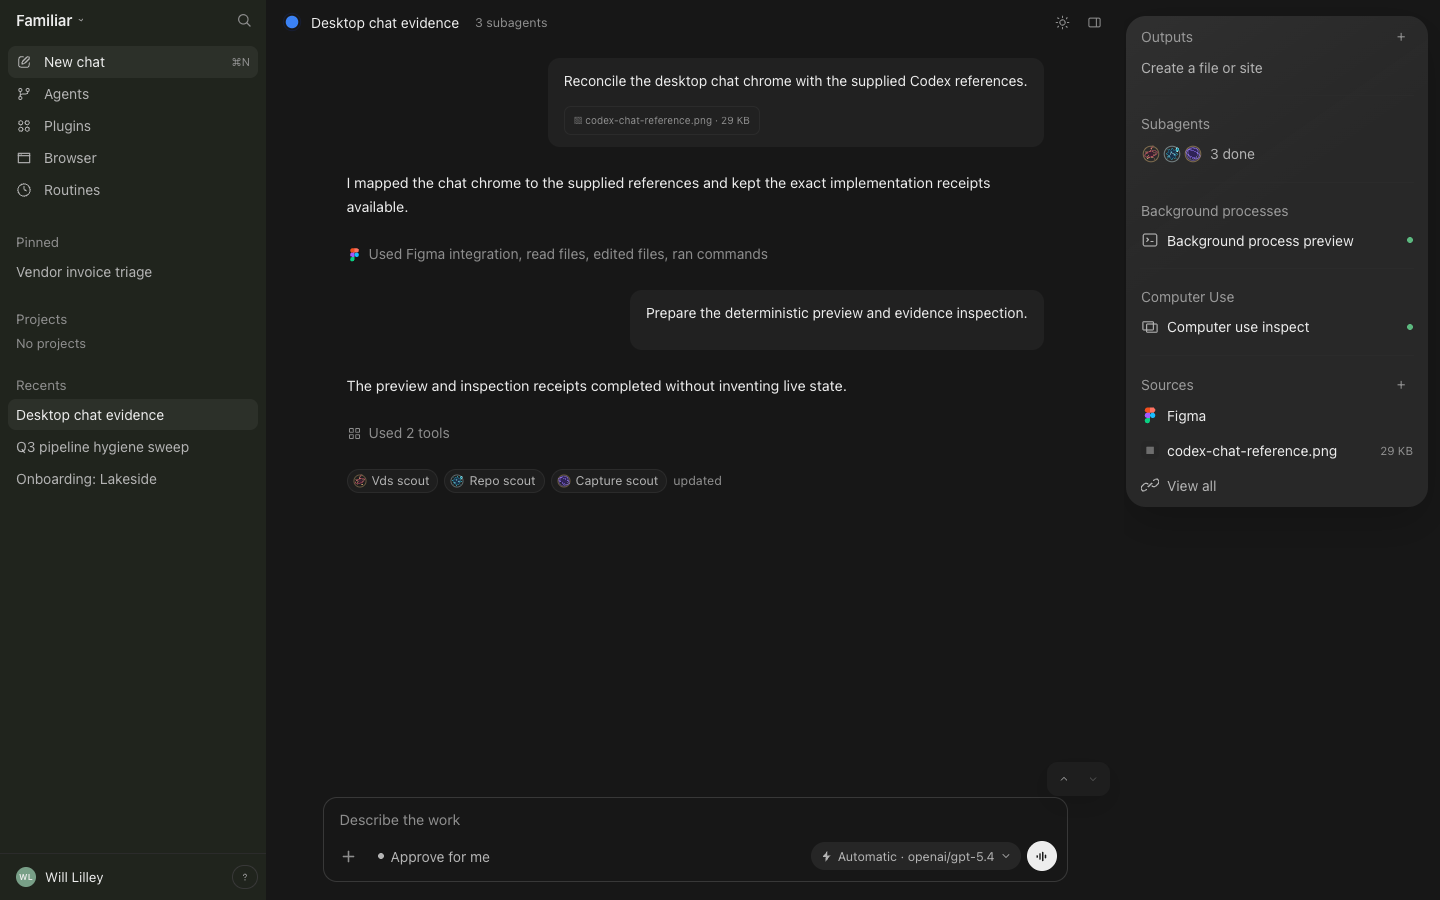
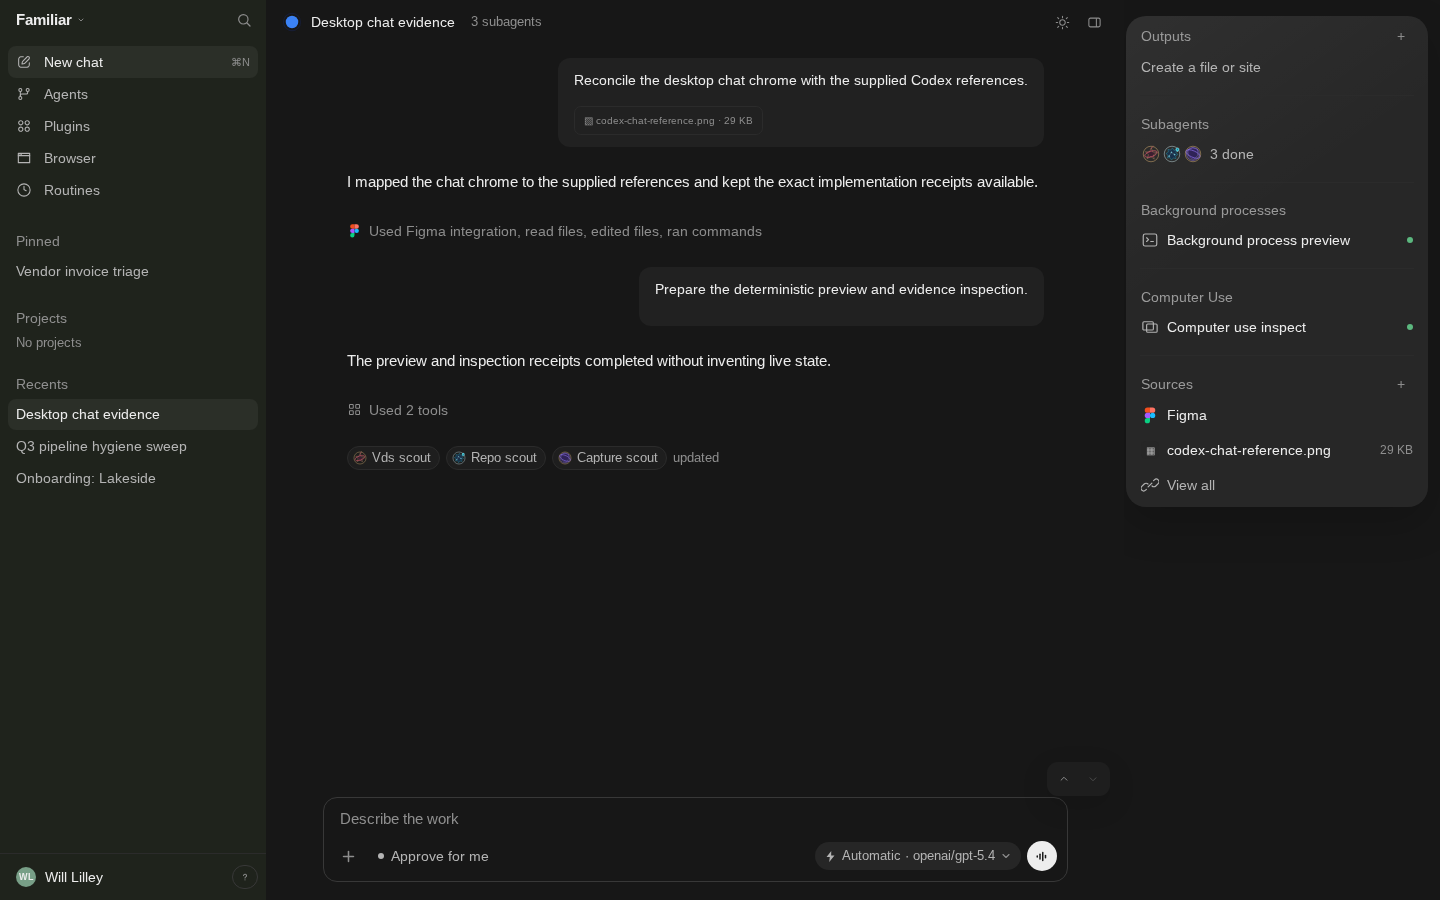
onboarding: give the header its mark, and name what the step chooses
Two asks, one pass over the same screens.

THE MARK WAS MISSING. The header carried the wordmark alone, so the logo never
appeared in onboarding. BrandMark is inline SVG for the same reason
BrandWordmark is inline text -- no second request, no flash of a missing logo,
and it scales with the type beside it. Two deliberate differences from
favicon.svg: it drops the dark background rect, because a favicon must paint its
own square and a logo inside a panel must not; and the ring is currentColor so
it inherits the header, leaving only the core carrying the fixed accent.

The mark and wordmark are one lockup, sized in em rather than px -- the wordmark
drops to 13px on narrow screens and a px mark would have stayed large and
unbalanced there.

"CHOOSE YOUR AI" NAMED THE WRONG THING. The step picks a PROVIDER -- the field
under the heading is literally "Provider", and the model is a separate field
below it. Renamed in both the gate and the step, and the thirteen test
assertions that pin the exact string moved with it; they use exact matchers, so
leaving them would have failed loudly, which is the correct behaviour for copy
that is asserted.

tsc clean, onboarding suite 16/16, visual-evidence 26/26 after refreshing the
additive capture.

diff --git a/apps/worker/tests/onboarding.test.tsx b/apps/worker/tests/onboarding.test.tsx
@@ -150,12 +150,12 @@ describe("first-run onboarding", () => {
     expect(screen.getByText("Choose your companion")).toBeTruthy();
 
     fireEvent.keyDown(document.body, { key: "Enter" });
-    expect(await screen.findByText("Choose your AI")).toBeTruthy();
+    expect(await screen.findByText("Choose your AI provider")).toBeTruthy();
     fireEvent.click(await screen.findByRole("button", { name: "OpenAI" }));
     const providerSearch = screen.getByRole("searchbox", { name: "Search providers" });
     fireEvent.change(providerSearch, { target: { value: "Llama" } });
     fireEvent.keyDown(providerSearch, { key: "Enter" });
-    expect(screen.getByText("Choose your AI")).toBeTruthy();
+    expect(screen.getByText("Choose your AI provider")).toBeTruthy();
 
     fireEvent.keyDown(providerSearch, { key: "Escape" });
     fireEvent.keyDown(document.body, { key: "Enter" });
@@ -229,7 +229,7 @@ describe("first-run onboarding", () => {
     expect(document.querySelectorAll(".companion-check")).toHaveLength(1);
     fireEvent.click(screen.getByRole("button", { name: "Continue" }));
 
-    expect(await screen.findByText("Choose your AI")).toBeTruthy();
+    expect(await screen.findByText("Choose your AI provider")).toBeTruthy();
     const secret = await screen.findByLabelText("Provider API key") as HTMLInputElement;
     fireEvent.change(secret, { target: { value: "secret-provider-value" } });
     fireEvent.click(screen.getByRole("button", { name: "Choose a model" }));
@@ -282,7 +282,7 @@ describe("first-run onboarding", () => {
     fireEvent.change(screen.getByLabelText("Your name"), { target: { value: "Alex" } });
     fireEvent.click(screen.getByRole("button", { name: "Continue" }));
     fireEvent.click(screen.getByRole("button", { name: "Continue" }));
-    expect(await screen.findByText("Choose your AI")).toBeTruthy();
+    expect(await screen.findByText("Choose your AI provider")).toBeTruthy();
     expect((await screen.findByRole("button", { name: "Enter your API key first" }) as HTMLButtonElement).disabled)
       .toBe(true);
 
@@ -310,7 +310,7 @@ describe("first-run onboarding", () => {
     fireEvent.change(screen.getByLabelText("Your name"), { target: { value: "Alex" } });
     fireEvent.click(screen.getByRole("button", { name: "Continue" }));
     fireEvent.click(screen.getByRole("button", { name: "Continue" }));
-    expect(await screen.findByText("Choose your AI")).toBeTruthy();
+    expect(await screen.findByText("Choose your AI provider")).toBeTruthy();
 
     fireEvent.click(screen.getByRole("button", { name: "OpenAI" }));
     fireEvent.change(screen.getByLabelText("Search providers"), { target: { value: "ollama" } });
@@ -351,7 +351,7 @@ describe("first-run onboarding", () => {
     fireEvent.change(screen.getByLabelText("Your name"), { target: { value: "Alex" } });
     fireEvent.click(screen.getByRole("button", { name: "Continue" }));
     fireEvent.click(screen.getByRole("button", { name: "Continue" }));
-    expect(await screen.findByText("Choose your AI")).toBeTruthy();
+    expect(await screen.findByText("Choose your AI provider")).toBeTruthy();
     expect(screen.queryByRole("note")).toBeNull();
 
     fireEvent.click(screen.getByRole("button", { name: "OpenAI" }));
@@ -399,13 +399,13 @@ describe("first-run onboarding", () => {
     fireEvent.change(screen.getByLabelText("Your name"), { target: { value: "Alex" } });
     fireEvent.click(screen.getByRole("button", { name: "Continue" }));
     fireEvent.click(screen.getByRole("button", { name: "Continue" }));
-    expect(await screen.findByText("Choose your AI")).toBeTruthy();
+    expect(await screen.findByText("Choose your AI provider")).toBeTruthy();
     fireEvent.change(await screen.findByLabelText("Provider API key"), { target: { value: "partial-key" } });
     fireEvent.click(screen.getByRole("button", { name: "Continue" }));
 
     expect(await screen.findByText("Choose a provider, add its key and pick a model to continue."))
       .toBeTruthy();
-    expect(screen.getByText("Choose your AI")).toBeTruthy();
+    expect(screen.getByText("Choose your AI provider")).toBeTruthy();
     expect(api.setAiKey).not.toHaveBeenCalled();
   });
 
@@ -446,7 +446,7 @@ describe("first-run onboarding", () => {
 
     expect(await screen.findByText("Select Continue again to approve this provider and model."))
       .toBeTruthy();
-    expect(screen.getByText("Choose your AI")).toBeTruthy();
+    expect(screen.getByText("Choose your AI provider")).toBeTruthy();
     expect(api.approveAiKeyProposal).not.toHaveBeenCalled();
     fireEvent.click(screen.getByRole("button", { name: "Continue" }));
 
@@ -483,7 +483,7 @@ describe("first-run onboarding", () => {
     fireEvent.change(screen.getByLabelText("Your name"), { target: { value: "Alex" } });
     fireEvent.click(screen.getByRole("button", { name: "Continue" }));
     fireEvent.click(screen.getByRole("button", { name: "Continue" }));
-    expect(await screen.findByText("Choose your AI")).toBeTruthy();
+    expect(await screen.findByText("Choose your AI provider")).toBeTruthy();
     fireEvent.click(screen.getByRole("button", { name: "Continue" }));
 
     await waitFor(() => expect(api.activateAiKey).toHaveBeenCalledWith({
@@ -511,7 +511,7 @@ describe("first-run onboarding", () => {
     fireEvent.change(screen.getByLabelText("Your name"), { target: { value: "Alex" } });
     fireEvent.click(screen.getByRole("button", { name: "Continue" }));
     fireEvent.click(screen.getByRole("button", { name: "Continue" }));
-    expect(await screen.findByText("Choose your AI")).toBeTruthy();
+    expect(await screen.findByText("Choose your AI provider")).toBeTruthy();
     await screen.findByLabelText("Provider API key");
     expect(screen.queryByText("Connect a provider")).toBeNull();
     expect(screen.queryByText("Add an AI provider")).toBeNull();
@@ -602,7 +602,7 @@ describe("first-run onboarding", () => {
     fireEvent.change(screen.getByLabelText("Your name"), { target: { value: "Alex" } });
     fireEvent.click(screen.getByRole("button", { name: "Continue" }));
     fireEvent.click(screen.getByRole("button", { name: "Continue" }));
-    await screen.findByText("Choose your AI");
+    await screen.findByText("Choose your AI provider");
     fireEvent.click(screen.getByRole("button", { name: "Continue" }));
 
     expect(await screen.findByText("Add vision")).toBeTruthy();
@@ -631,7 +631,7 @@ describe("first-run onboarding", () => {
     fireEvent.change(screen.getByLabelText("Your name"), { target: { value: "Alex" } });
     fireEvent.click(screen.getByRole("button", { name: "Continue" }));
     fireEvent.click(screen.getByRole("button", { name: "Continue" }));
-    await screen.findByText("Choose your AI");
+    await screen.findByText("Choose your AI provider");
     fireEvent.click(screen.getByRole("button", { name: "Continue" }));
     fireEvent.click(await screen.findByRole("button", { name: "Skip for now" }));
     fireEvent.click(await screen.findByRole("button", { name: "Skip for now" }));

diff --git a/apps/worker/src/components/onboarding/OnboardingGate.tsx b/apps/worker/src/components/onboarding/OnboardingGate.tsx
@@ -8,6 +8,7 @@ import {
 } from "../../character";
 import { client } from "../../client";
 import { needsOnboarding } from "../../onboarding";
+import { BrandMark } from "../BrandMark";
 import { BrandWordmark } from "../BrandWordmark";
 import { CompanionStep } from "./CompanionStep";
 import { NameStep } from "./NameStep";
@@ -84,7 +85,7 @@ function OnboardingUnavailable() {
       <div className="onboarding-aurora one" /><div className="onboarding-aurora two" />
       <section className="onboarding-panel" aria-label="Boltrig setup">
         <header className="onboarding-topbar">
-          <BrandWordmark className="onboarding-brand" />
+          <span className="onboarding-lockup"><BrandMark className="onboarding-mark" /><BrandWordmark className="onboarding-brand" /></span>
         </header>
         <div className="onboarding-content">
           <div className="onboarding-step">
@@ -283,7 +284,7 @@ function ProviderStepLoading() {
   return (
     <div className="onboarding-step provider-step" aria-busy="true">
       <div className="onboarding-heading onboarding-rise">
-        <h1>Choose your AI</h1>
+        <h1>Choose your AI provider</h1>
       </div>
       <div className="onboarding-loader"><span /><span /><span /></div>
     </div>
@@ -415,7 +416,7 @@ function OnboardingFrame({
       <div className="onboarding-aurora one" /><div className="onboarding-aurora two" />
       <section className="onboarding-panel" aria-label="Boltrig setup">
         <header className="onboarding-topbar">
-          <BrandWordmark className="onboarding-brand" />
+          <span className="onboarding-lockup"><BrandMark className="onboarding-mark" /><BrandWordmark className="onboarding-brand" /></span>
           <span className="onboarding-progress" aria-label={`Step ${step + 1} of 6`}>
             {[0, 1, 2, 3, 4, 5].map((index) => <i className={index <= step ? "active" : ""} key={index} />)}
           </span>

diff --git a/apps/worker/src/components/BrandMark.tsx b/apps/worker/src/components/BrandMark.tsx
@@ -1,0 +1,27 @@
+/** The Boltrig mark: the dashed ring and its core.
+ *
+ * Inline SVG rather than an <img> to favicon.svg, for the same reason
+ * BrandWordmark is inline text -- no second network request, no flash of a
+ * missing logo, and it scales with the type around it.
+ *
+ * TWO DELIBERATE DIFFERENCES FROM THE FAVICON. It drops the dark background
+ * rect, because a favicon has to paint its own square and a logo sitting in a
+ * panel must not. And the ring is `currentColor` instead of a fixed near-white,
+ * so it inherits whatever the header is using; only the core keeps the fixed
+ * accent, which is the one part that carries the brand.
+ */
+export function BrandMark({ className = "" }: { className?: string }) {
+  return (
+    <svg
+      className={`boltrig-mark ${className}`.trim()}
+      viewBox="0 0 100 100"
+      aria-hidden
+      focusable="false"
+    >
+      <g fill="none" stroke="currentColor" strokeLinecap="round" strokeWidth={6}>
+        <circle cx="50" cy="50" r="44" strokeDasharray="230 46" />
+      </g>
+      <circle cx="50" cy="50" r="9" fill="#3DD3F0" />
+    </svg>
+  );
+}

diff --git a/apps/worker/src/components/onboarding/onboarding.css b/apps/worker/src/components/onboarding/onboarding.css
@@ -48,6 +48,12 @@
   border-bottom: 1px solid color-mix(in srgb, var(--border) 72%, transparent);
 }
 .onboarding-brand { font-size: 17px; }
+/* Mark and wordmark as ONE lockup, so they move together and stay optically
+   aligned. The mark is sized in em off the wordmark rather than in px: the
+   wordmark drops to 13px on narrow screens (see the media query below) and a
+   px mark would have stayed large and unbalanced there. */
+.onboarding-lockup { display: inline-flex; align-items: center; gap: 0.55em; }
+.onboarding-mark { width: 1.35em; height: 1.35em; flex: none; color: var(--text); }
 .onboarding-progress { display: flex; gap: 7px; }
 .onboarding-progress i { width: 22px; height: 3px; border-radius: 99px; background: var(--border-2); transition: background 280ms ease, transform 280ms ease; }
 .onboarding-progress i.active { background: var(--text); transform: scaleX(1.08); }

diff --git a/apps/worker/src/components/onboarding/ProviderStep.tsx b/apps/worker/src/components/onboarding/ProviderStep.tsx
@@ -21,7 +21,7 @@ export const ProviderStep = forwardRef<ProviderStepHandle, { profile: UserProfil
   function ProviderStep({ profile }, ref) {
     return (
       <ProviderStepBase
-        heading="Choose your AI"
+        heading="Choose your AI provider"
         modality="text"
         profile={profile}
         ref={ref}
